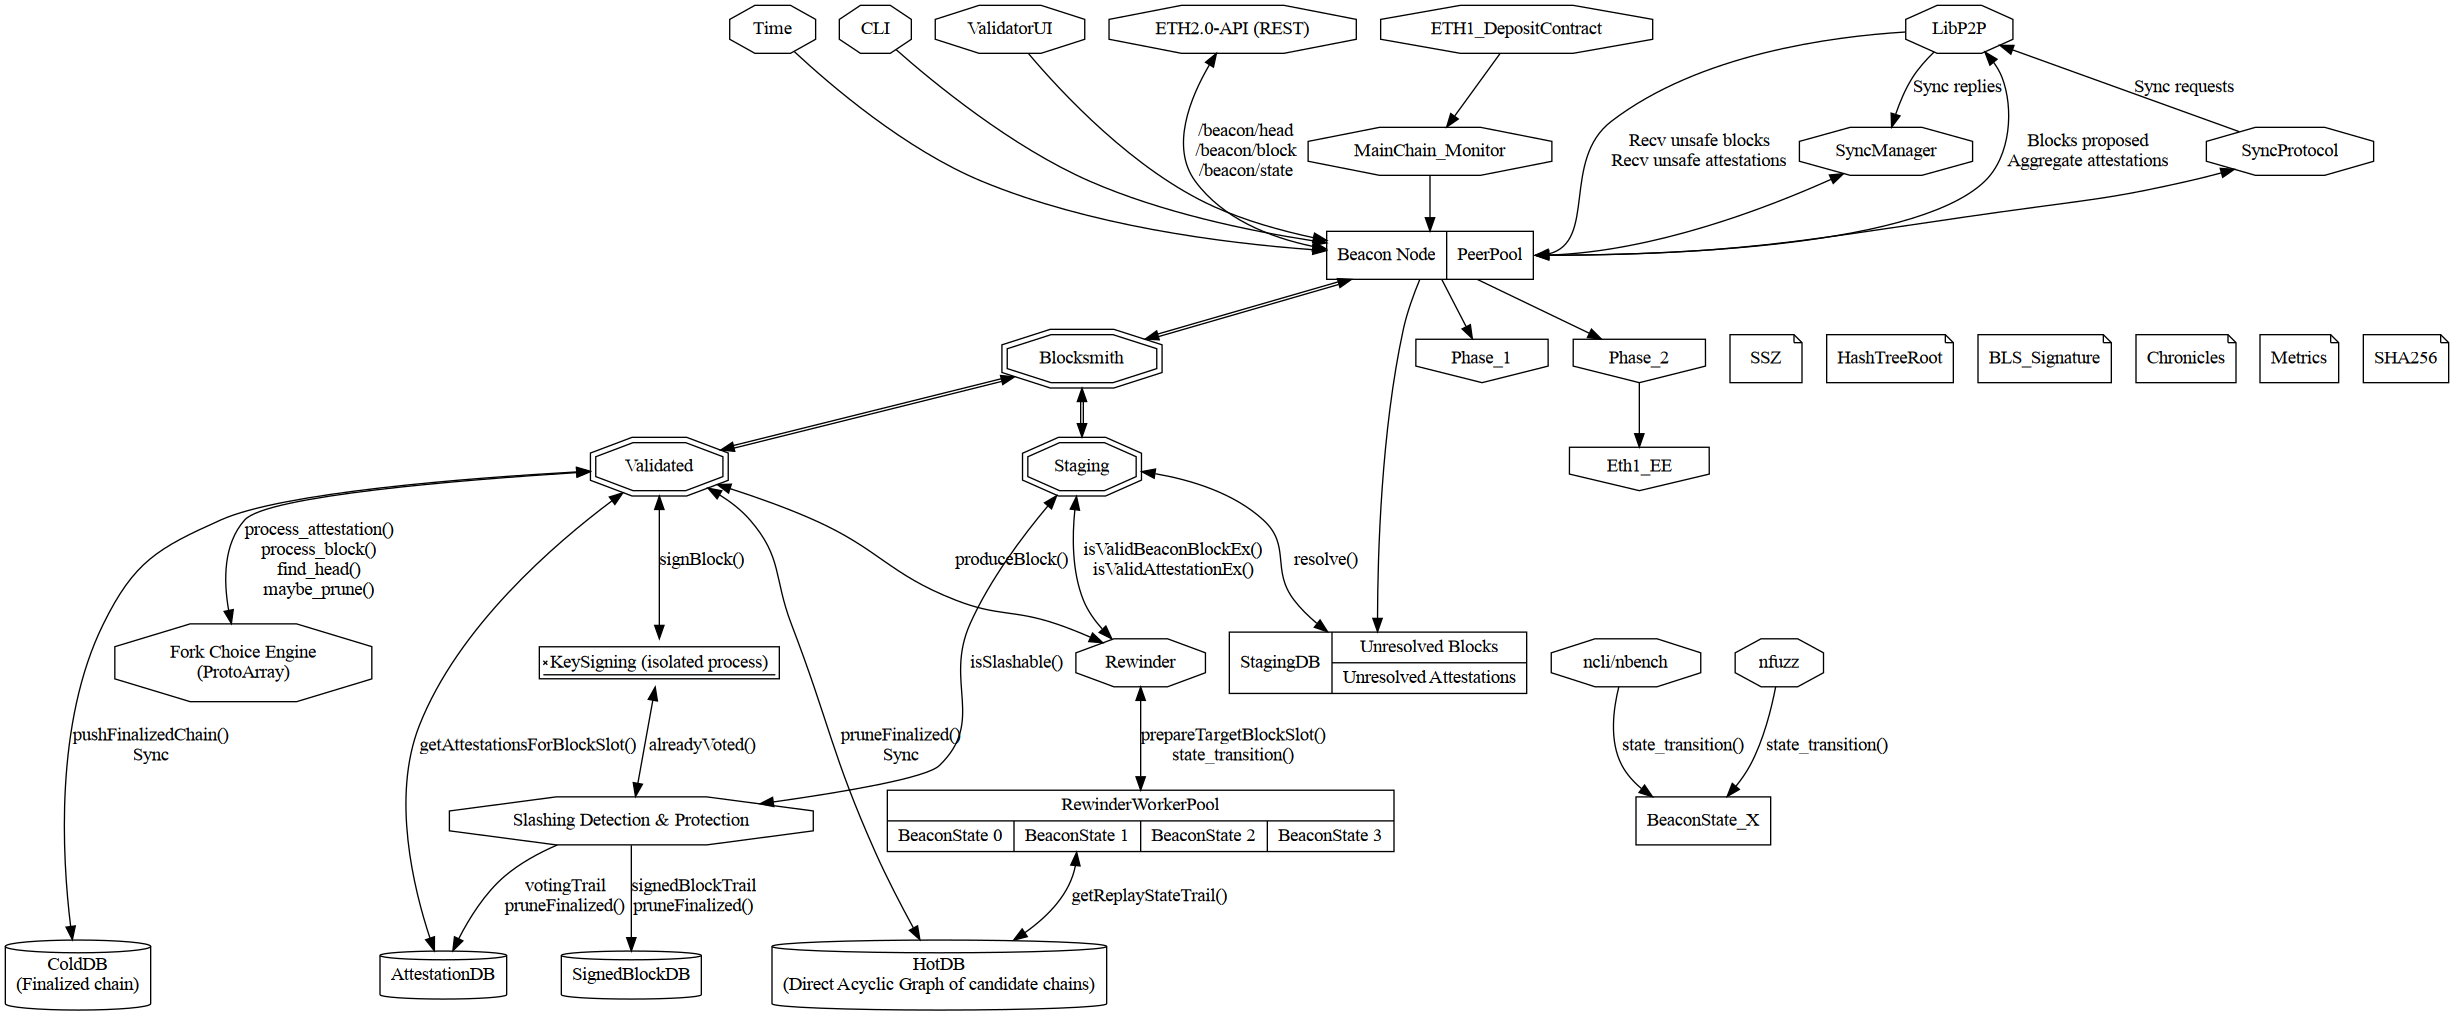
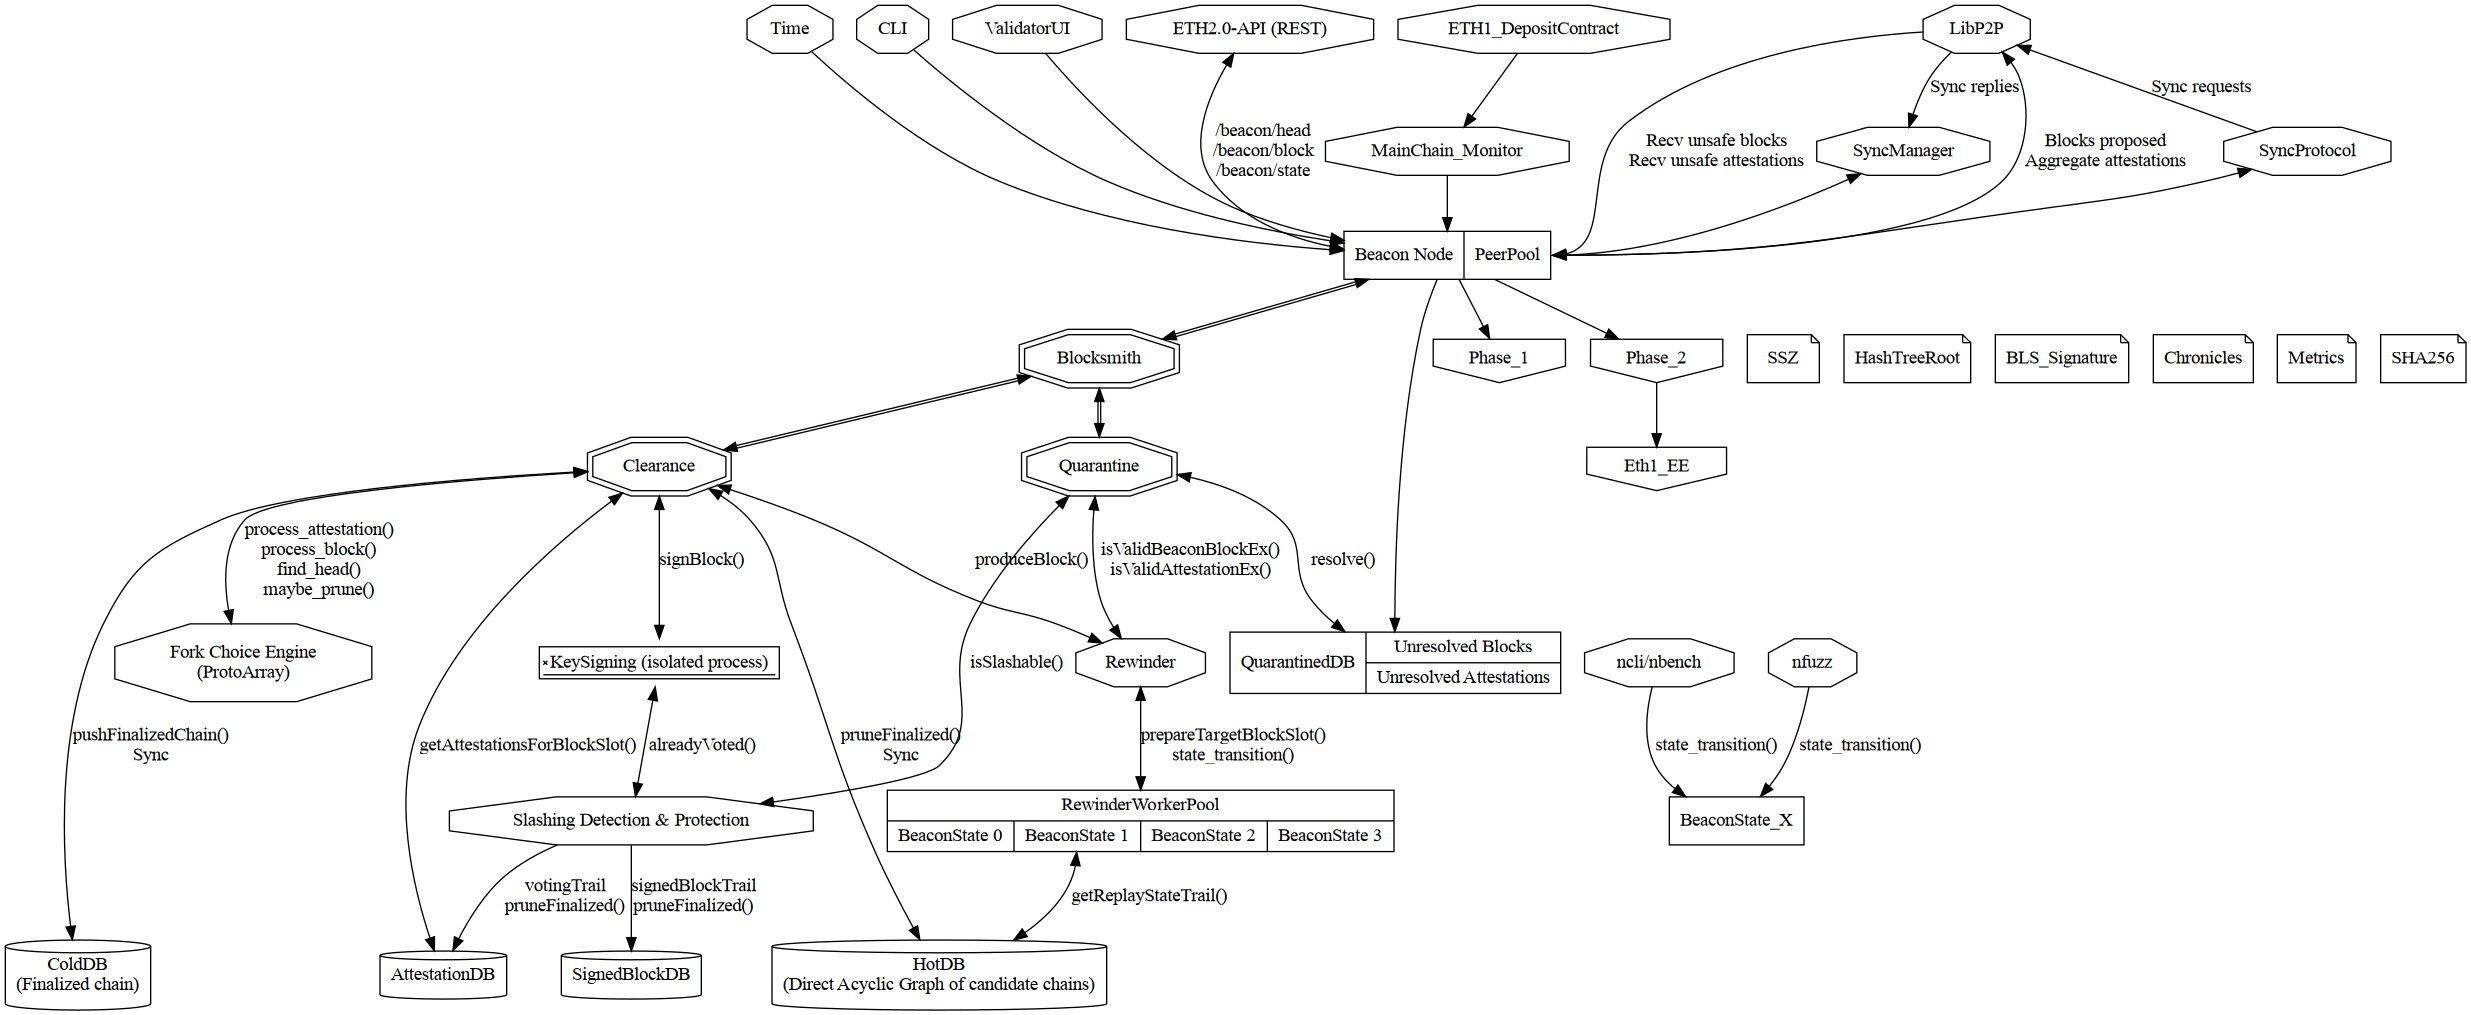
Use Cleared/Clearance instead of Validated to limit confusion with consensus object, and Quarantine/Quarantined instead of Staging to highlight the risk.

diff --git a/hotdb.md b/hotdb.md
@@ -7,7 +7,7 @@ since the last finalized block.
 
 It only operates on validated blocks.
 The HotDB interacts with 2 services:
-- the "Validated" service
+- the "Clearance" service
   - which provides new blocks to cache
   - which requests for pruning on a new finalized epoch
 - the "Rewinder" service
@@ -27,7 +27,7 @@ The HotDB shall cache intermediate BeaconState to address the following needs
 
 ## Providers
 
-The "Validated" service is the only source of data for cached blocks:
+The "Clearance" service is the only source of data for cached blocks:
 - add new blocks to the cache, in particular after sync.
 - notify a new finalized block, which reset the HotDB to a pristine state.
 
@@ -37,7 +37,7 @@ The "RewinderWorkers" are the only source of data for cached states:
 
 ## Consumers
 
-### "Validated" service
+### "Clearance" service
 
 The validated service answers incoming BlockSync requests by querying the HotDB for a chain of blocks.
 
@@ -79,26 +79,26 @@ a separate thread sleeping on an incoming task channel that will activate on an 
 
 ```Nim
 type
-  ValidBlockRoot = distinct Eth2Digest
-  ValidStateRoot = distinct Eth2Digest
+  ClearedBlockRoot = distinct Eth2Digest
+  ClearedStateRoot = distinct Eth2Digest
 
   BlockDAGNode = object
     ## A node in the Direct Acyclic Graph of candidate chains.
 ```
 
-### "Validated" service
+### "Clearance" service
 
 #### Existing
 ```Nim
-proc getBlockRange(service: HotDB, startSlot: Slot, skipStep: Natural, output: var openArray[BlockRef]): Natural
+proc getBlockRange(service: HotDB, startSlot: Slot, skipStep: Natural, output: var openArray[BlockDAGNode]): Natural
   ## For sync_protocol.nim
-proc getBlockByPreciseSlot(service: HotDB, slot: Slot): BlockRef
+proc getBlockByPreciseSlot(service: HotDB, slot: Slot): BlockDAGNode
   ## For `installBeaconApiHandlers` in beacon_node.nim
 ```
 
 #### New
 ```Nim
-proc pruneFinalized(service: HotDB, block_root: ValidBlockRoot)
+proc pruneFinalized(service: HotDB, block_root: ClearedBlockRoot)
 ```
 
 ### "RewinderWorker"
@@ -108,9 +108,9 @@ Note: the result will actually be returned by channel
 #### New
 
 ```Nim
-proc getReplayStateTrail(chan: ptr Channel[tuple[startState: BeaconState, blocks: seq[SignedBeaconBlock]]], db: HotDB, block_root: ValidBlockRoot)
+proc getReplayStateTrail(chan: ptr Channel[tuple[startState: BeaconState, blocks: seq[SignedBeaconBlock]]], db: HotDB, block_root: ClearedBlockRoot)
 
-proc getReplayStateTrail(chan: ptr Channel[tuple[startState: BeaconState, blocks: seq[SignedBeaconBlock]]], db: HotDB, block_root: ValidBlockRoot, slot: Slot)
+proc getReplayStateTrail(chan: ptr Channel[tuple[startState: BeaconState, blocks: seq[SignedBeaconBlock]]], db: HotDB, block_root: ClearedBlockRoot, slot: Slot)
 ```
 
 ### Depends
@@ -120,8 +120,8 @@ Depends on a way to add new cached states, as mentioned in the transition period
 ### "BlockSmith"
 
 The block smith owns the HotDB? It is responsible to ensure that
-- the HotDB is started before the services that depends on it (Validated and Rewinder services)
-- the Validated and Rewinder services are stopped before shutting the HotDB down.
+- the HotDB is started before the services that depends on it (Clearance and Rewinder services)
+- the Clearance and Rewinder services are stopped before shutting the HotDB down.
 
 #### New
 
@@ -144,13 +144,13 @@ const ResultChannelSize = sizeof(ptr RawChannel)
 
 const EnvSize = max(
   # getBlockRange
-  ResultChannelSize + sizeof(Slot) + sizeof(Natural) + sizeof(seq[BlockRef]),
+  ResultChannelSize + sizeof(Slot) + sizeof(Natural) + sizeof(seq[BlockDAGNode]),
   # getBlockByPreciseSlot
   ResultChannelSize + sizeof(Slot),
   # pruneFinalized
-  ResultChannelSize + sizeof(ValidBlockRoot),
+  ResultChannelSize + sizeof(ClearedBlockRoot),
   # getReplayStateTrail
-  ResultChannelSize + sizeof(ValidBlockRoot) + sizeof(Slot)
+  ResultChannelSize + sizeof(ClearedBlockRoot) + sizeof(Slot)
 )
 
 type
@@ -161,8 +161,8 @@ type
   HotDB = ptr object
     inTasks: Channel[HotDBTask]
     shutdown: bool
-    blocks: Table[ValidBlockRoot, BlockRef]
-    states: Table[ValidBlockRoot, ValidStateRoot]
+    blocks: Table[ClearedBlockRoot, BlockDAGNode]
+    states: Table[ClearedBlockRoot, ClearedStateRoot]
     dag: ...
     logFile: string
     logLevel: LogLevel
@@ -182,7 +182,7 @@ template call(service: HotDB, fnCall: typed{nkCall}) =
 
 ```
 # Example task
-proc getBlockByPreciseSlot(resultChan: Channel[BlockRef], db: HotDB, slot: Slot) {.taskify.}=
+proc getBlockByPreciseSlot(resultChan: Channel[BlockDAGNode], db: HotDB, slot: Slot) {.taskify.}=
   ## Retrieves a block from the canonical chain with a slot
   ## number equal to `slot`.
   let found = db.getBlockBySlot(slot)
@@ -193,7 +193,7 @@ proc getBlockByPreciseSlot(resultChan: Channel[BlockRef], db: HotDB, slot: Slot)
 The {.taskify.} pragma is a simple transformation to an implementation proc that process an `env` closure context.
 
 ```Nim
-proc getBlockByPreciseSlot(env: ptr tuple[env_resultChan: Channel[BlockRef], env_db: HotDB, env_slot: Slot]) =
+proc getBlockByPreciseSlot(env: ptr tuple[env_resultChan: Channel[BlockDAGNode], env_db: HotDB, env_slot: Slot]) =
   template resultChan: untyped {.dirty.} = env.env_resultChan
   template db: untyped {.dirty.} = env.env_db
   template slot: untyped {.dirty.} = env.env_slot
@@ -207,7 +207,7 @@ proc getBlockByPreciseSlot(env: ptr tuple[env_resultChan: Channel[BlockRef], env
 Now we only need to define a public template that will handle the serialization and also ensure that the public routine signature is usable (and not an env pointer)
 
 ```Nim*
-template getBlockByPreciseSlot*(service: HotDB, resultChan: Channel[BlockRef], hotDB: HotDB, slot: Slot): untyped =
+template getBlockByPreciseSlot*(service: HotDB, resultChan: Channel[BlockDAGNode], hotDB: HotDB, slot: Slot): untyped =
   ## Retrieves a block from the canonical chain with a slot
   ## number equal to `slot`.
   service.call getBlockByPreciseSlot(resultChan, hotDB, slot)

diff --git a/public_routines.md b/public_routines.md
@@ -9,12 +9,12 @@ We define some the following prerequisites types
 ```Nim
 type
   ValidBlock = distinct SignedBeaconBlock
-  StagingBlock = distinct SignedBeaconBlock
+  QuarantinedBlock = distinct SignedBeaconBlock
 
-  ValidBlockRoot = distinct Eth2Digest
+  ClearedBlockRoot = distinct Eth2Digest
   StagingBlockRoot = distinct Eth2Digest
 
-  ValidStateRoot = distinct Eth2Digest
+  ClearedStateRoot = distinct Eth2Digest
   StagingStateRoot = distinct Eth2Digest
 
   BlockDAGNode = object
@@ -24,7 +24,7 @@ type
 The goal is to avoid mixing block_root and state_root at the type level
 and also to prevent using non-validated data in the wrong place.
 
-Additionally a grep for `ValidBlock`, `ValidBlockRoot` and `ValidStateRoot` conversions
+Additionally a grep for `ValidBlock`, `ClearedBlockRoot` and `ClearedStateRoot` conversions
 will highlight the boundaries. Relevant boundary procedures should receive special fuzzing, testing and auditing focus.
 
 ## Block_pool
@@ -97,7 +97,7 @@ This is problematic for several reasons:
   a dispatcher to distribute BeaconState manipulation requests on multiple threads.
 - Block signing and attestation production MUST be handled in a separate process.
 - There is strong coupling between networking services and consensus services.
-- We want an explicit "firewall" with tainted UnsafeBlock and distinct ValidatedBlock to enforce proper usage.
+- We want an explicit "firewall" with tainted UnsafeBlock and distinct ClearedBlock to enforce proper usage.
 
 This means that
 - `proposeBlock` in `beacon_node.nim` is split into
@@ -113,7 +113,7 @@ This means that
   - `getAggregateAndProofFor(BeaconBlock, Slot)` in the Rewinder service
   - `signAggregateAndProof` in the KeySigning isolated service
 - `getBeaconState(slot: Option[Slot], root: Option[Eth2Digest]) -> StringOfJson` queries:
-  - `getJsonEncodedStateFor(state_root: ValidStateRoot, slot: Slot)`
+  - `getJsonEncodedStateFor(state_root: ClearedStateRoot, slot: Slot)`
 - `addLocalValidators` only uses BeaconState to warn if a validator is unknown in the state registry.
   This can happen if the validator deposit is not processed yet.
   That part can be delegated to a
@@ -136,10 +136,13 @@ They are exported just for testing except for:
 - `getAncestorAt` in `handleValidatorDuties`
 - `findAncestorBySlot` in `handleAttestations`
 
-### Updates
+### Adding a QuarantinedBlock to the DAG
 
 ```Nim
 proc add*(pool: var BlockPool, blockRoot: Eth2Digest, signedBlock: SignedBeaconBlock)
+proc addResolvedBlock(
+    pool: var BlockPool, state: BeaconState, blockRoot: Eth2Digest,
+    signedBlock: SignedBeaconBlock, parent: BlockRef): BlockRef
 ```
 
 Is one of the proc that allows a block to traverse the firewall
@@ -147,7 +150,7 @@ Is one of the proc that allows a block to traverse the firewall
 It should be handled at `Blocksmith` level with
 
 ```Nim
-proc incomingBlock*(service: Blocksmith, resultChan: Channel[Result[BlockDAGNode, IncomingBlockStatus]], block_root: StagingBlockRoot, stagingBlock: StagingBlock) =
+proc incomingBlock*(service: Blocksmith, resultChan: Channel[Result[BlockDAGNode, IncomingBlockStatus]], block_root: StagingBlockRoot, stagingBlock: QuarantinedBlock) =
 
   assert Eth2Digest(block_root) = hash_tree_root(stagingBlock)
 
@@ -175,7 +178,7 @@ proc incomingBlock*(service: Blocksmith, resultChan: Channel[Result[BlockDAGNode
   if parent.isSome():
     # If the parent is in the HotDB we can validate the block
 
-    # First of all we can remove it from the StagingDB
+    # First of all we can remove it from the QuarantinedDB
     service.staging.delete(block_root)
 
     # Now we fully validate it, this is delegated to the multithreaded Rewinder service
@@ -194,4 +197,11 @@ proc incomingBlock*(service: Blocksmith, resultChan: Channel[Result[BlockDAGNode
 
 
     # TODO ...
+  else:
+    service.stagingDB.unknownParent(stagingBlock.message.parent_root)
 ```
+
+Blocks with unknown parents are sent to the QuarantinedDB.
+After a new block becomes `validated`.
+The `Quarantine` service can schedule a (possibly non-blocking) `resolve()`
+operation to collect new blocks to validate.

diff --git a/rewinder.md b/rewinder.md
@@ -5,16 +5,16 @@
 The rewinder service answers requests that require state data.
 
 It interacts with 2 services:
-- the "Validated" service
+- the "Clearance" service
   - to provide the head block of the canonical chain.
-- the "Staging" service
+- the "Quarantine" service
   - to validate a block
   - to validate an attestation
 
 It is the only module that apply `state_transition()`. Furthermore the only other module that deal with `BeaconState` is the HotDB but only with raw copyMem. This is an important properties with the following benefits:
 - BeaconState is costly both in term of memory and CPU. We can focus the target of our optimizations.
 - Mutable state has a higher chance to have bugs. We can focus the target of our instrumentation and verification effort.
-- When stateless clients become a reality, we can strip this module, the `Staging` service and the state caching part from the HotDB.
+- When stateless clients become a reality, we can strip this module, the `Quarantine` service and the state caching part from the HotDB.
 
 To verify a block or an attestation, the application must load the state prior to the targeted block and then try to apply the block.
 This requires keeping a cache of states and blocks to apply to reach the target state, this is retrieved from the HotDB.
@@ -51,7 +51,7 @@ The number of worker threads will depend on the available cores and memory const
 ```Nim
 type
   ValidBlock = distinct SignedBeaconBlock
-  StagingBlock = distinct SignedBeaconBlock
+  QuarantinedBlock = distinct SignedBeaconBlock
   JustifiedSlot = Slot
 
   UpdateFlag* = enum
@@ -135,7 +135,7 @@ template call(service: Rewinder, fnCall: typed{nkCall}) =
 proc isValidBeaconBlockP2PExWorker(
        resultChan: ptr Channel[bool]],
        wrk: RewinderWorker,
-       unsafeBlock: StagingBlock
+       unsafeBlock: QuarantinedBlock
      ) {.taskify.} =
   ## Expensive block validation.
   ## The unsafeBlock parent MUST be in the HotDB before calling this proc
@@ -178,7 +178,7 @@ proc isValidBeaconBlockP2PExWorker(
        env: tuple[
          env_resultChan: ptr Channel[bool],
          env_wrk: RewinderWorker,
-         env_unsafeBlock: StagingBlock
+         env_unsafeBlock: QuarantinedBlock
      ]) =
   ## Expensive block validation.
   ## The unsafeBlock parent MUST be in the HotDB before calling this proc
@@ -225,7 +225,7 @@ type isValidBeaconBlockP2PExTask = ptr object
   env: tuple[
     resultChan: ptr Channel[bool],
     wrk: RewinderWorker,
-    unsafeBlock: StagingBlock
+    unsafeBlock: QuarantinedBlock
   ]
 
 proc dispatchisValidBeaconBlockP2PExToWorker(task: ptr RewinderTask, worker: RewinderWorker) =
@@ -260,7 +260,7 @@ template isValidBeaconBlockP2PEx(
            service: Rewinder
            resultChan: ptr Channel[bool],
            wrk: Rewinder,
-           unsafeBlock: StagingBlock
+           unsafeBlock: QuarantinedBlock
          ) =
   rewinder.call isValidBeaconBlockP2PEx(resultChan, wrk, unsafeBlock)
 ```
@@ -283,7 +283,7 @@ TODO
 proc isValidBeaconBlockEx(
        resultChan: ptr Channel[Option[JustifiedSlot]],
        wrk: RewinderWorker,
-       unsafeBlock: StagingBlock
+       unsafeBlock: QuarantinedBlock
      )
 ```
 

diff --git a/architecture_phase0.md b/architecture_phase0.md
@@ -11,8 +11,8 @@ The desired architecture of NBC (nim-beacon-chain) is the following:
   - attestation_aggregation.nim
   The replacements are:
   - "Blocksmith"
-  - "Staging"
-  - "Validated"
+  - "Quarantine"
+  - "Clearance"
   The idea is to highlight the implicit "firewall" between non-validated blocks and attestations
   and cleanly separate modules (and types) that deal with tainted network data,
   and modules that operate on clean data.
@@ -24,7 +24,7 @@ The desired architecture of NBC (nim-beacon-chain) is the following:
   - It has been multithreaded, with a the Rewinder service managing a pool of temporary beacon state "RewinderWorker".
     and distributing the attestation validation, block validation and head block requests
     asynchronously on a ready "RewinderWorker".
-- The block pool tables and caches duties are moved to a HotDB and StagingDB
+- The block pool tables and caches duties are moved to a HotDB and QuarantinedDB
   - This makes the core part of the firewall stateless
   - Storage is separate from logic and both are easier to optimize independently.
 - The HotDB will only hold the blockchains DAG since the last finalized block.
@@ -43,7 +43,12 @@ Services are implemented via an eventLoop that wait until the channel for incomi
 
 This architecture has the following advantages:
 - Services state is easier to handle:
-  - It is isolated if any state is actually required
+  - Each service state is isolated if any state is actually required
+  - Long-term state is stored in clearly identified "DB":
+    - ColdDB for the finalized chain
+    - HotDB for the Direct Acyclic Graph of candidate chains
+    - AttestationDB and SignedBlockDB for slashing detection and protection
+    The internal state of non-DB service is only transient and **space usage is bounded**.
 - Reduce coupling between modules
 - Services handle a small subset of functionality making them easier to test, audit, optimize and document
 - The nim-beacon-chain becomes multi-threaded at the service level
@@ -51,7 +56,7 @@ This architecture has the following advantages:
 
 Unintended advantages:
 - Parameter passing is done on the heap, preventing stack overflows, especially with the limit Android stack size.
-- Namespacing
+- Namespacing, as cross-service function calls use the target service as first-parameter.
 
 The architecture has the following disadvantages:
 - lots of copyMem (but with our object sizes, returning an Eth2Digest involves an implicit copyMem so the difference might not be that critical)
